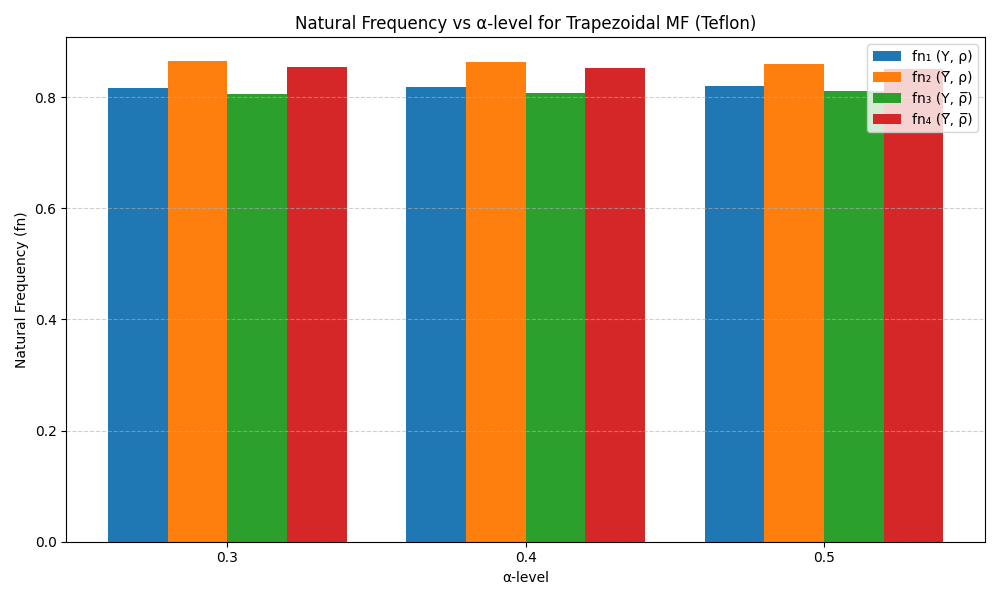
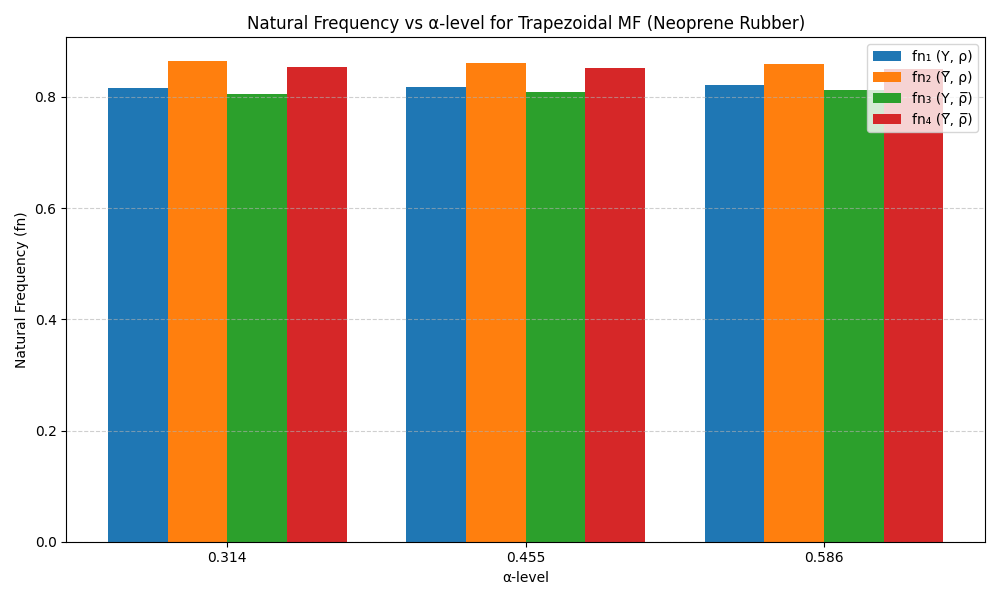
first commit

diff --git a/app.py b/app.py
@@ -109,17 +109,21 @@ def graph():
         a6 = safe_float(request.form.get('alpha_dash3'))     
         material = tbl_materials.query.filter_by(mat_id=ddlmat_ID).first()
         mat_name = material.mat_name if material else None
-        print("Material Name =====>>>>", mat_name)
-        if(ddlfuntion == '1'):    
-            alpha_cuts = [a1, a2, a3]        
-            fn_dict = GetFuns(alpha_cuts)
-            g2 = 'Bar_alpha' + 'MF' + '.png' 
-            g1 = GetBarChat(alpha_cuts,fn_dict,g2,mat_name, 1)
-            # Alpha dash code
-            alpha_dash_cuts = [a4, a5, a6]        
-            fn_dict_dash = GetFuns(alpha_dash_cuts)
-            g4 = 'Bar_alpha_dash' + 'MF' + '.png' 
-            g3 = GetBarChat(alpha_dash_cuts,fn_dict_dash,g4,mat_name, 2)
+        # print("Material Name =====>>>>", mat_name)
+        fun_type = ''
+        if(ddlfuntion == '1'):   
+            fun_type = "Trapezoidal" 
+        else:
+            fun_type = "Triangular"
+        alpha_cuts = [a1, a2, a3]        
+        fn_dict = GetFuns(alpha_cuts)
+        g2 = 'Bar_alpha' + 'MF' + '.png' 
+        g1 = GetBarChat(alpha_cuts, fn_dict, g2, mat_name, 1, fun_type)
+        # Alpha dash code
+        alpha_dash_cuts = [a4, a5, a6]        
+        fn_dict_dash = GetFuns(alpha_dash_cuts)
+        g4 = 'Bar_alpha_dash' + 'MF' + '.png' 
+        g3 = GetBarChat(alpha_dash_cuts, fn_dict_dash, g4, mat_name, 2, fun_type)
         return render_template('graph.html',fn_dict= fn_dict,alpha_cuts=alpha_cuts,alpha_dash_cuts=alpha_dash_cuts,fn_dict_dash=fn_dict_dash,g1=g1,g2=g2,g3=g3,g4=g4,a1=a1,a2=a2,a3=a3,a4=a4,a5=a5,a6=a6,s1=ddlmat_ID,s2=ddlfuntion,materials=materials)
     
     return render_template('graph.html',g1=g1,g2=g2,g3=g3,g4=g4,materials=materials,s1=None)

diff --git a/barchat.py b/barchat.py
@@ -2,11 +2,10 @@ import matplotlib.pyplot as plt
 import numpy as np
 
 # Alpha levels
-def GetBarChat(alpha_cuts,fn_dict, graph, material, aval):
+def GetBarChat(alpha_cuts,fn_dict, graph, material, aval, fun_type):
     # alphas = [0.3, 0.4, 0.5]
     alphas = alpha_cuts
     # print(alphas)
-
     # Natural frequencies for each alpha level
     # fn1 = [0.816, 0.819, 0.822]
     # fn2 = [0.857, 0.854, 0.851]
@@ -38,9 +37,9 @@ def GetBarChat(alpha_cuts,fn_dict, graph, material, aval):
         plt.xlabel('α dash-level')
     plt.ylabel('Natural Frequency (fn)')
     if aval == 1:
-        plt.title("Natural Frequency vs α-level for Trapezoidal MF (" + material + ")")
+        plt.title("Natural Frequency vs α-level for "+ fun_type + " MF (" + material + ")")
     else:
-        plt.title("Natural Frequency vs α-dash level for Trapezoidal MF (" + material + ")")
+        plt.title("Natural Frequency vs α-dash level for "+ fun_type + " MF (" + material + ")")
     plt.xticks([r + 1.5 * bar_width for r in range(len(alphas))], alphas)
     plt.legend()
     plt.grid(True, axis='y', linestyle='--', alpha=0.6)
